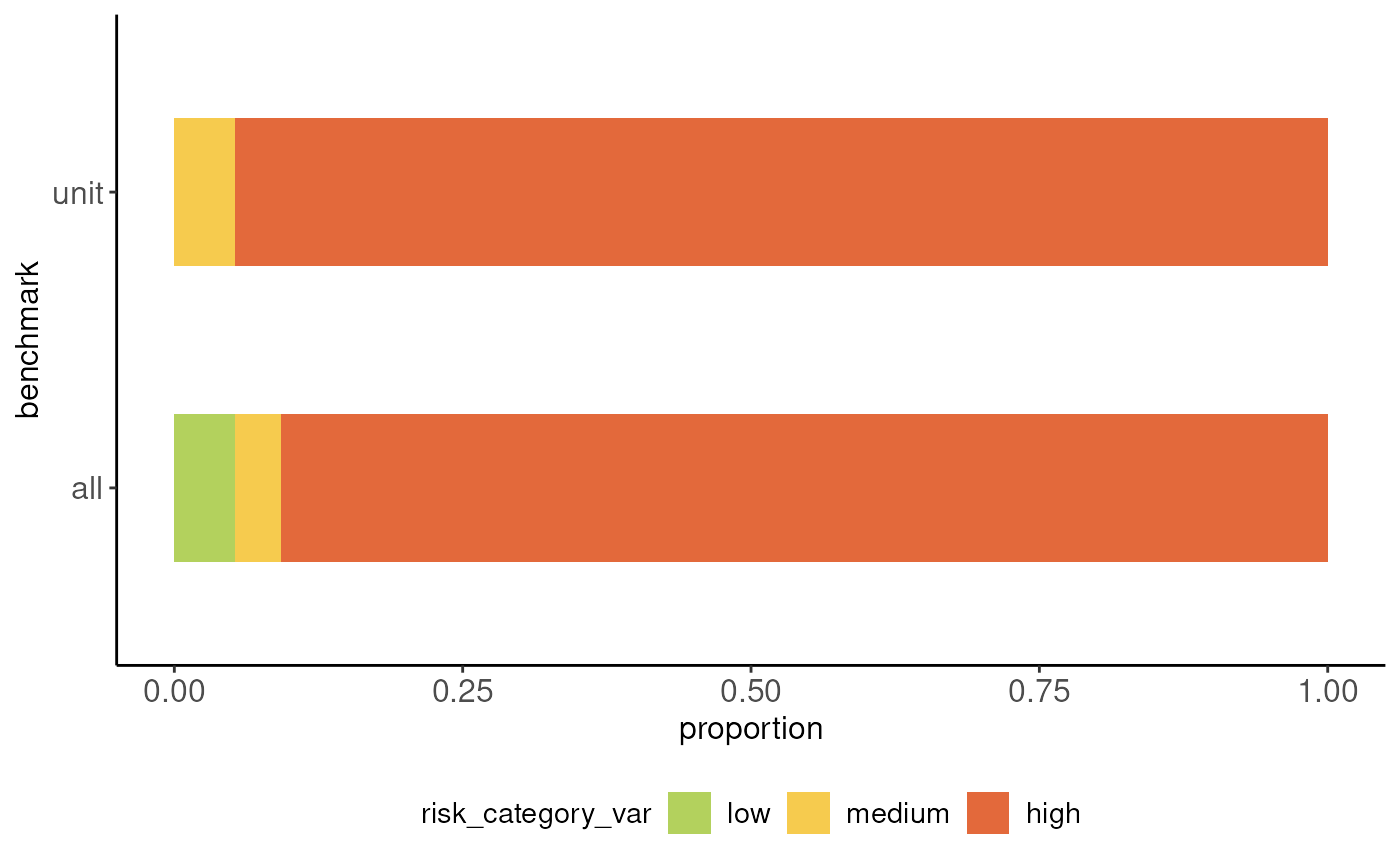
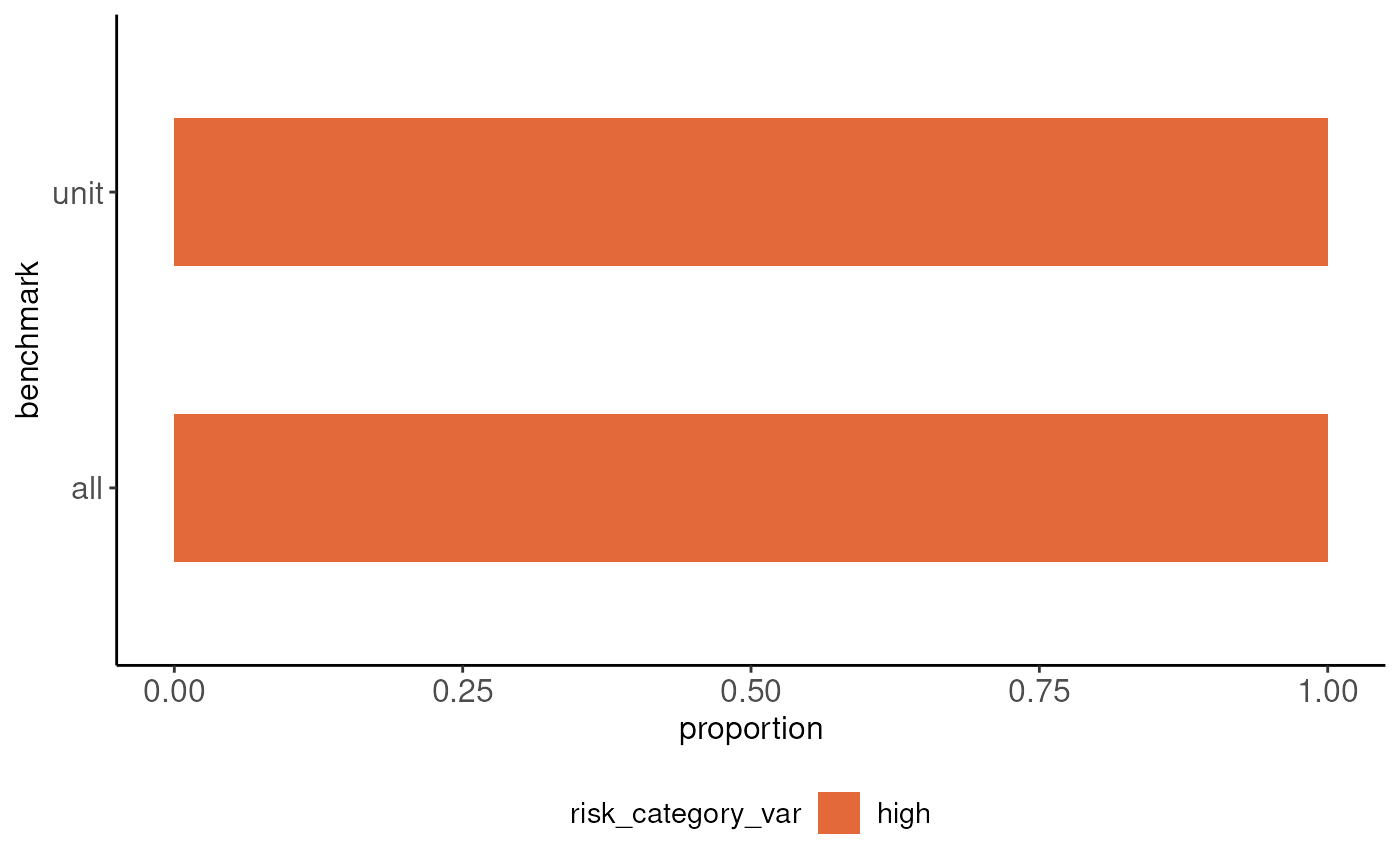
Deploying to gh-pages from @ 2DegreesInvesting/tiltPlot@a931511a64b86c10ba1656dd6fdda24d949b56a4 🚀

Changed region(s): [[0.3071, 0.9052, 0.7679, 0.9676], [0.1229, 0.4682, 0.215, 0.6555], [0.1229, 0.1249, 0.1843, 0.3121]]

diff --git a/articles/integration-with-tiltIndicator.html b/articles/integration-with-tiltIndicator.html
@@ -83,7 +83,7 @@
 <p>Setup.</p>
 <div class="sourceCode" id="cb1"><pre class="downlit sourceCode r">
 <code class="sourceCode R"><span><span class="kw"><a href="https://rdrr.io/r/base/library.html" class="external-link">library</a></span><span class="op">(</span><span class="va"><a href="https://2degreesinvesting.github.io/tiltToyData/" class="external-link">tiltToyData</a></span><span class="op">)</span></span>
-<span><span class="kw"><a href="https://rdrr.io/r/base/library.html" class="external-link">library</a></span><span class="op">(</span><span class="va"><a href="https://github.com/2DegreesInvesting/tiltIndicator" class="external-link">tiltIndicator</a></span><span class="op">)</span></span>
+<span><span class="kw"><a href="https://rdrr.io/r/base/library.html" class="external-link">library</a></span><span class="op">(</span><span class="va"><a href="https://2degreesinvesting.github.io/tiltIndicatorAfter/" class="external-link">tiltIndicatorAfter</a></span><span class="op">)</span></span>
 <span><span class="kw"><a href="https://rdrr.io/r/base/library.html" class="external-link">library</a></span><span class="op">(</span><span class="va"><a href="https://2degreesinvesting.github.io/tiltPlot/">tiltPlot</a></span><span class="op">)</span></span>
 <span><span class="kw"><a href="https://rdrr.io/r/base/library.html" class="external-link">library</a></span><span class="op">(</span><span class="va"><a href="https://dplyr.tidyverse.org" class="external-link">dplyr</a></span>, warn.conflicts <span class="op">=</span> <span class="cn">FALSE</span><span class="op">)</span></span>
 <span><span class="kw"><a href="https://rdrr.io/r/base/library.html" class="external-link">library</a></span><span class="op">(</span><span class="va"><a href="https://readr.tidyverse.org" class="external-link">readr</a></span>, warn.conflicts <span class="op">=</span> <span class="cn">FALSE</span><span class="op">)</span></span>
@@ -92,24 +92,32 @@
 <p>Data.</p>
 <div class="sourceCode" id="cb2"><pre class="downlit sourceCode r">
 <code class="sourceCode R"><span><span class="va">companies</span> <span class="op">&lt;-</span> <span class="fu"><a href="https://readr.tidyverse.org/reference/read_delim.html" class="external-link">read_csv</a></span><span class="op">(</span><span class="fu"><a href="https://2degreesinvesting.github.io/tiltToyData/reference/toy_files.html" class="external-link">toy_emissions_profile_any_companies</a></span><span class="op">(</span><span class="op">)</span><span class="op">)</span></span>
-<span><span class="va">products</span> <span class="op">&lt;-</span> <span class="fu"><a href="https://readr.tidyverse.org/reference/read_delim.html" class="external-link">read_csv</a></span><span class="op">(</span><span class="fu"><a href="https://2degreesinvesting.github.io/tiltToyData/reference/toy_files.html" class="external-link">toy_emissions_profile_products_ecoinvent</a></span><span class="op">(</span><span class="op">)</span><span class="op">)</span></span></code></pre></div>
+<span><span class="va">products</span> <span class="op">&lt;-</span> <span class="fu"><a href="https://readr.tidyverse.org/reference/read_delim.html" class="external-link">read_csv</a></span><span class="op">(</span><span class="fu"><a href="https://2degreesinvesting.github.io/tiltToyData/reference/toy_files.html" class="external-link">toy_emissions_profile_products_ecoinvent</a></span><span class="op">(</span><span class="op">)</span><span class="op">)</span></span>
+<span><span class="va">co2</span> <span class="op">&lt;-</span> <span class="fu"><a href="https://readr.tidyverse.org/reference/read_delim.html" class="external-link">read_csv</a></span><span class="op">(</span><span class="fu"><a href="https://2degreesinvesting.github.io/tiltToyData/reference/toy_files.html" class="external-link">toy_emissions_profile_products_ecoinvent</a></span><span class="op">(</span><span class="op">)</span><span class="op">)</span></span>
+<span><span class="va">europages_companies</span> <span class="op">&lt;-</span> <span class="fu"><a href="https://readr.tidyverse.org/reference/read_delim.html" class="external-link">read_csv</a></span><span class="op">(</span><span class="fu"><a href="https://2degreesinvesting.github.io/tiltToyData/reference/toy_files.html" class="external-link">toy_europages_companies</a></span><span class="op">(</span><span class="op">)</span><span class="op">)</span></span>
+<span><span class="va">ecoinvent_activities</span> <span class="op">&lt;-</span> <span class="fu"><a href="https://readr.tidyverse.org/reference/read_delim.html" class="external-link">read_csv</a></span><span class="op">(</span><span class="fu"><a href="https://2degreesinvesting.github.io/tiltToyData/reference/toy_files.html" class="external-link">toy_ecoinvent_activities</a></span><span class="op">(</span><span class="op">)</span><span class="op">)</span></span>
+<span><span class="va">ecoinvent_europages</span> <span class="op">&lt;-</span> <span class="fu"><a href="https://readr.tidyverse.org/reference/read_delim.html" class="external-link">read_csv</a></span><span class="op">(</span><span class="fu"><a href="https://2degreesinvesting.github.io/tiltToyData/reference/toy_files.html" class="external-link">toy_ecoinvent_europages</a></span><span class="op">(</span><span class="op">)</span><span class="op">)</span></span>
+<span><span class="va">isic_name</span> <span class="op">&lt;-</span> <span class="fu"><a href="https://readr.tidyverse.org/reference/read_delim.html" class="external-link">read_csv</a></span><span class="op">(</span><span class="fu"><a href="https://2degreesinvesting.github.io/tiltToyData/reference/toy_files.html" class="external-link">toy_isic_name</a></span><span class="op">(</span><span class="op">)</span><span class="op">)</span></span></code></pre></div>
 <p>Apply tilt methodology.</p>
 <div class="sourceCode" id="cb3"><pre class="downlit sourceCode r">
-<code class="sourceCode R"><span><span class="va">emissions_profile</span> <span class="op">&lt;-</span> <span class="fu"><a href="https://rdrr.io/pkg/tiltIndicator/man/emissions_profile.html" class="external-link">emissions_profile</a></span><span class="op">(</span><span class="va">companies</span>, <span class="va">products</span><span class="op">)</span></span>
-<span><span class="va">at_product_level</span> <span class="op">&lt;-</span> <span class="fu"><a href="https://rdrr.io/pkg/tiltIndicator/man/unnest_product.html" class="external-link">unnest_product</a></span><span class="op">(</span><span class="va">emissions_profile</span><span class="op">)</span></span></code></pre></div>
-<p>Adapt the ouput of tiltIindicator to the input of tiltPlot.</p>
-<div class="sourceCode" id="cb4"><pre class="downlit sourceCode r">
-<code class="sourceCode R"><span><span class="va">at_product_level</span> <span class="op">&lt;-</span> <span class="va">at_product_level</span> <span class="op">|&gt;</span></span>
-<span>  <span class="fu"><a href="https://dplyr.tidyverse.org/reference/rename.html" class="external-link">rename</a></span><span class="op">(</span>emission_profile <span class="op">=</span> <span class="va">risk_category</span>, benchmark <span class="op">=</span> <span class="va">grouped_by</span><span class="op">)</span></span></code></pre></div>
+<code class="sourceCode R"><span><span class="va">result</span> <span class="op">&lt;-</span> <span class="fu"><a href="https://2degreesinvesting.github.io/tiltIndicatorAfter/reference/profile_emissions_upstream.html" class="external-link">profile_emissions</a></span><span class="op">(</span></span>
+<span>  <span class="va">companies</span>,</span>
+<span>  <span class="va">products</span>,</span>
+<span>  europages_companies <span class="op">=</span> <span class="va">europages_companies</span>,</span>
+<span>  ecoinvent_activities <span class="op">=</span> <span class="va">ecoinvent_activities</span>,</span>
+<span>  ecoinvent_europages <span class="op">=</span> <span class="va">ecoinvent_europages</span>,</span>
+<span>  isic <span class="op">=</span> <span class="va">isic_name</span></span>
+<span>  <span class="op">)</span> <span class="op">|&gt;</span> </span>
+<span>  <span class="fu"><a href="https://rdrr.io/pkg/tiltIndicator/man/unnest_product.html" class="external-link">unnest_product</a></span><span class="op">(</span><span class="op">)</span></span></code></pre></div>
 <p>Visualize all companies.</p>
-<div class="sourceCode" id="cb5"><pre class="downlit sourceCode r">
-<code class="sourceCode R"><span><span class="fu"><a href="../reference/bar_plot_emission_profile.html">bar_plot_emission_profile</a></span><span class="op">(</span><span class="va">at_product_level</span>, benchmarks <span class="op">=</span> <span class="fu"><a href="https://rdrr.io/r/base/c.html" class="external-link">c</a></span><span class="op">(</span><span class="st">"all"</span>, <span class="st">"unit"</span><span class="op">)</span><span class="op">)</span></span></code></pre></div>
-<p><img src="integration-with-tiltIndicator_files/figure-html/unnamed-chunk-5-1.png" width="700"></p>
+<div class="sourceCode" id="cb4"><pre class="downlit sourceCode r">
+<code class="sourceCode R"><span><span class="fu"><a href="../reference/bar_plot_emission_profile.html">bar_plot_emission_profile</a></span><span class="op">(</span><span class="va">result</span>, benchmarks <span class="op">=</span> <span class="fu"><a href="https://rdrr.io/r/base/c.html" class="external-link">c</a></span><span class="op">(</span><span class="st">"all"</span>, <span class="st">"unit"</span><span class="op">)</span>, mode <span class="op">=</span> <span class="st">"equal_weight"</span><span class="op">)</span></span></code></pre></div>
+<p><img src="integration-with-tiltIndicator_files/figure-html/unnamed-chunk-4-1.png" width="700"></p>
 <p>Visualize one specific company.</p>
-<div class="sourceCode" id="cb6"><pre class="downlit sourceCode r">
-<code class="sourceCode R"><span><span class="va">first_company</span> <span class="op">&lt;-</span> <span class="fu"><a href="https://dplyr.tidyverse.org/reference/filter.html" class="external-link">filter</a></span><span class="op">(</span><span class="va">at_product_level</span>, <span class="va">companies_id</span> <span class="op"><a href="https://rdrr.io/r/base/match.html" class="external-link">%in%</a></span> <span class="fu"><a href="https://dplyr.tidyverse.org/reference/nth.html" class="external-link">first</a></span><span class="op">(</span><span class="va">companies_id</span><span class="op">)</span><span class="op">)</span></span>
-<span><span class="fu"><a href="../reference/bar_plot_emission_profile.html">bar_plot_emission_profile</a></span><span class="op">(</span><span class="va">first_company</span>, benchmarks <span class="op">=</span> <span class="fu"><a href="https://rdrr.io/r/base/c.html" class="external-link">c</a></span><span class="op">(</span><span class="st">"all"</span>, <span class="st">"unit"</span><span class="op">)</span><span class="op">)</span></span></code></pre></div>
-<p><img src="integration-with-tiltIndicator_files/figure-html/unnamed-chunk-6-1.png" width="700"></p>
+<div class="sourceCode" id="cb5"><pre class="downlit sourceCode r">
+<code class="sourceCode R"><span><span class="va">first_company</span> <span class="op">&lt;-</span> <span class="fu"><a href="https://dplyr.tidyverse.org/reference/filter.html" class="external-link">filter</a></span><span class="op">(</span><span class="va">result</span>, <span class="va">companies_id</span> <span class="op"><a href="https://rdrr.io/r/base/match.html" class="external-link">%in%</a></span> <span class="fu"><a href="https://dplyr.tidyverse.org/reference/nth.html" class="external-link">first</a></span><span class="op">(</span><span class="va">companies_id</span><span class="op">)</span><span class="op">)</span></span>
+<span><span class="fu"><a href="../reference/bar_plot_emission_profile.html">bar_plot_emission_profile</a></span><span class="op">(</span><span class="va">first_company</span>, benchmarks <span class="op">=</span> <span class="fu"><a href="https://rdrr.io/r/base/c.html" class="external-link">c</a></span><span class="op">(</span><span class="st">"all"</span>, <span class="st">"unit"</span><span class="op">)</span>, mode <span class="op">=</span> <span class="st">"equal_weight"</span><span class="op">)</span></span></code></pre></div>
+<p><img src="integration-with-tiltIndicator_files/figure-html/unnamed-chunk-5-1.png" width="700"></p>
   </main>
 </div>
 

diff --git a/index.html b/index.html
@@ -205,12 +205,12 @@
 <span></span>
 <span><span class="va">no_fin</span> <span class="op">|&gt;</span></span>
 <span>  <span class="fu"><a href="https://dplyr.tidyverse.org/reference/filter.html" class="external-link">filter</a></span><span class="op">(</span><span class="va">company_name</span> <span class="op">==</span> <span class="st">"peter"</span><span class="op">)</span> <span class="op">|&gt;</span></span>
-<span>  <span class="fu"><a href="reference/bar_plot_emission_profile.html">bar_plot_emission_profile</a></span><span class="op">(</span><span class="va">benchmarks</span><span class="op">)</span> <span class="op">+</span></span>
+<span>  <span class="fu"><a href="reference/bar_plot_emission_profile.html">bar_plot_emission_profile</a></span><span class="op">(</span><span class="va">benchmarks</span>, mode <span class="op">=</span> <span class="st">"equal_weight"</span><span class="op">)</span> <span class="op">+</span></span>
 <span>  <span class="fu"><a href="https://ggplot2.tidyverse.org/reference/labs.html" class="external-link">labs</a></span><span class="op">(</span>title <span class="op">=</span> <span class="st">"Emission profile of all products on a company level"</span><span class="op">)</span></span></code></pre></div>
 <p><img src="reference/figures/README-unnamed-chunk-11-1.png" width="100%"></p>
 <p>Plot on a portfolio level.</p>
 <div class="sourceCode" id="cb12"><pre class="downlit sourceCode r">
-<code class="sourceCode R"><span><span class="fu"><a href="reference/bar_plot_emission_profile.html">bar_plot_emission_profile</a></span><span class="op">(</span><span class="va">no_fin</span>, <span class="va">benchmarks</span><span class="op">)</span> <span class="op">+</span></span>
+<code class="sourceCode R"><span><span class="fu"><a href="reference/bar_plot_emission_profile.html">bar_plot_emission_profile</a></span><span class="op">(</span><span class="va">no_fin</span>, <span class="va">benchmarks</span>, mode <span class="op">=</span> <span class="st">"equal_weight"</span><span class="op">)</span> <span class="op">+</span></span>
 <span>  <span class="fu"><a href="https://ggplot2.tidyverse.org/reference/labs.html" class="external-link">labs</a></span><span class="op">(</span>title <span class="op">=</span> <span class="st">"Emission profile of all products on a portfolio level"</span><span class="op">)</span></span></code></pre></div>
 <p><img src="reference/figures/README-unnamed-chunk-12-1.png" width="100%"></p>
 </div>
@@ -243,7 +243,8 @@
 <span>  <span class="fu"><a href="https://ggplot2.tidyverse.org/reference/labs.html" class="external-link">labs</a></span><span class="op">(</span>title <span class="op">=</span> <span class="st">"German map of high, medium and low proportions of the companies</span></span>
 <span><span class="st">  that are found in one region.</span></span>
 <span><span class="st">  © EuroGeographics for the administrative boundaries "</span><span class="op">)</span></span>
-<span><span class="co">#&gt; Extracting data using giscoR package, please report issues on https://github.com/rOpenGov/giscoR/issues</span></span></code></pre></div>
+<span><span class="co">#&gt; Extracting data using giscoR package, please report issues on https://github.com/rOpenGov/giscoR/issues</span></span>
+<span><span class="co">#&gt; Cache management as per giscoR. see 'giscoR::gisco_get_nuts()'</span></span></code></pre></div>
 <p><img src="reference/figures/README-unnamed-chunk-14-1.png" width="100%"></p>
 </div>
 </div>

diff --git a/reference/map_region_risk.html b/reference/map_region_risk.html
@@ -107,7 +107,15 @@ or "best_case". If nothing is chosen, "equal_weight" is the default mode.</p></d
 <span class="r-in"><span><span class="op">}</span><span class="op">)</span></span></span>
 <span class="r-msg co"><span class="r-pr">#&gt;</span> Extracting data using giscoR package, please report issues on https://github.com/rOpenGov/giscoR/issues</span>
 <span class="r-msg co"><span class="r-pr">#&gt;</span> Cache management as per giscoR. see 'giscoR::gisco_get_nuts()'</span>
-<span class="r-plt img"><img src="map_region_risk-1.png" alt="" width="700" height="433"></span>
+<span class="r-msg co"><span class="r-pr">#&gt;</span> HTTP Status Code: 503 - Service Unavailable</span>
+<span class="r-msg co"><span class="r-pr">#&gt;</span> </span>
+<span class="r-msg co"><span class="r-pr">#&gt;</span> url </span>
+<span class="r-msg co"><span class="r-pr">#&gt;</span>   https://gisco-services.ec.europa.eu/distribution/v2/nuts/geojson/NUTS_RG_10M_2016_3035_LEVL_3.geojson  not reachable.</span>
+<span class="r-msg co"><span class="r-pr">#&gt;</span> </span>
+<span class="r-msg co"><span class="r-pr">#&gt;</span> Please download manually.  If you think this is a bug please consider opening an issue on  https://github.com/ropengov/giscoR/issues</span>
+<span class="r-msg co"><span class="r-pr">#&gt;</span> Returning `NULL`</span>
+<span class="r-out co"><span class="r-pr">#&gt;</span> Error in UseMethod("filter") : </span>
+<span class="r-out co"><span class="r-pr">#&gt;</span>   no applicable method for 'filter' applied to an object of class "NULL"</span>
 </code></pre></div>
     </div>
   </main><aside class="col-md-3"><nav id="toc"><h2>On this page</h2>

diff --git a/reference/bar_plot_emission_profile.html b/reference/bar_plot_emission_profile.html
@@ -60,7 +60,7 @@ the emission risk profiles risks for one or several benchmarks.</p>
 
     <div class="section level2">
     <h2 id="ref-usage">Usage<a class="anchor" aria-label="anchor" href="#ref-usage"></a></h2>
-    <div class="sourceCode"><pre class="sourceCode r"><code><span><span class="fu">bar_plot_emission_profile</span><span class="op">(</span><span class="va">data</span>, benchmarks <span class="op">=</span> <span class="fu"><a href="benchmarks.html">benchmarks</a></span><span class="op">(</span><span class="op">)</span><span class="op">)</span></span></code></pre></div>
+    <div class="sourceCode"><pre class="sourceCode r"><code><span><span class="fu">bar_plot_emission_profile</span><span class="op">(</span><span class="va">data</span>, benchmarks <span class="op">=</span> <span class="fu"><a href="benchmarks.html">benchmarks</a></span><span class="op">(</span><span class="op">)</span>, mode <span class="op">=</span> <span class="fu"><a href="modes.html">modes</a></span><span class="op">(</span><span class="op">)</span><span class="op">)</span></span></code></pre></div>
     </div>
 
     <div class="section level2">
@@ -73,6 +73,10 @@ the emission risk profiles risks for one or several benchmarks.</p>
 <dd><p>A character vector specifying the benchmarks for which the
 emission profiles will be plotted. The user can choose from one to several
 benchmark(s) to be plotted.</p></dd>
+
+
+<dt>mode</dt>
+<dd><p>A character vector: equal_weight, best_case, worst_case.</p></dd>
 
 </dl></div>
     <div class="section level2">

diff --git a/news/index.html b/news/index.html
@@ -51,10 +51,16 @@
     </div>
 
     <div class="section level2">
+<h2 class="pkg-version" data-toc-text="0.0.0.9002" id="tiltplot-0009002-2024-06-04">tiltPlot 0.0.0.9002 (2024-06-04)<a class="anchor" aria-label="anchor" href="#tiltplot-0009002-2024-06-04"></a></h2>
+<ul><li>
+<code><a href="../reference/bar_plot_emission_profile.html">bar_plot_emission_profile()</a></code> has now modes that the user can choose from (<a href="https://github.com/2DegreesInvesting/tiltPlot/issues/134" class="external-link">#134</a>).</li>
+</ul></div>
+    <div class="section level2">
 <h2 class="pkg-version" data-toc-text="0.0.0.9001" id="tiltplot-0009001-2023-06-27">tiltPlot 0.0.0.9001 (2023-06-27)<a class="anchor" aria-label="anchor" href="#tiltplot-0009001-2023-06-27"></a></h2>
 <ul><li>New <code><a href="../reference/plot_sankey.html">plot_sankey()</a></code> and <code>toy_data</code>.</li>
 </ul></div>
-  </main></div>
+  </main><aside class="col-md-3"><nav id="toc"><h2>On this page</h2>
+    </nav></aside></div>
 
 
     <footer><div class="pkgdown-footer-left">
